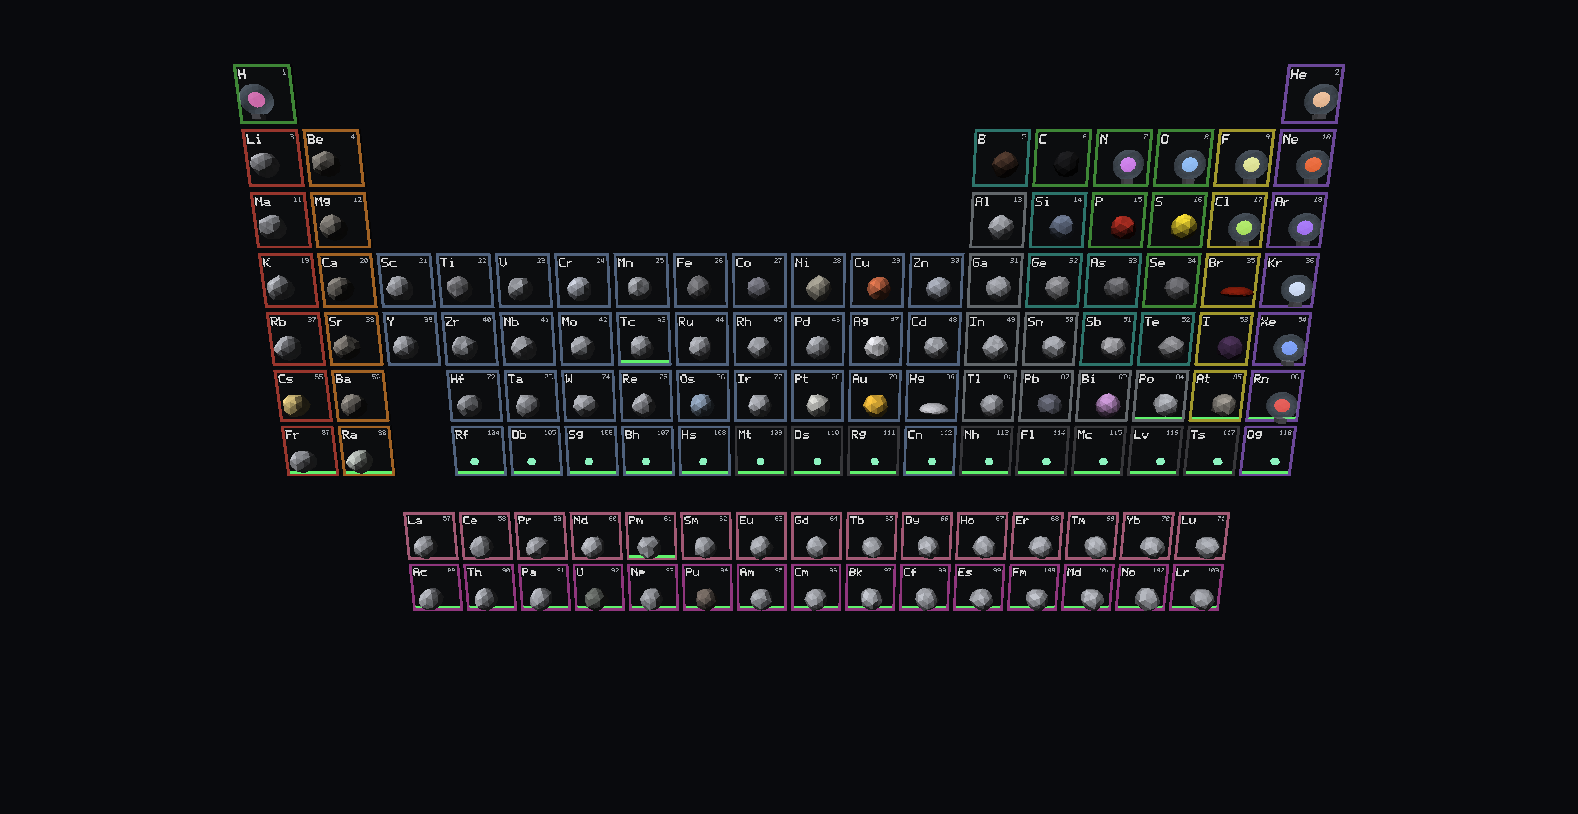
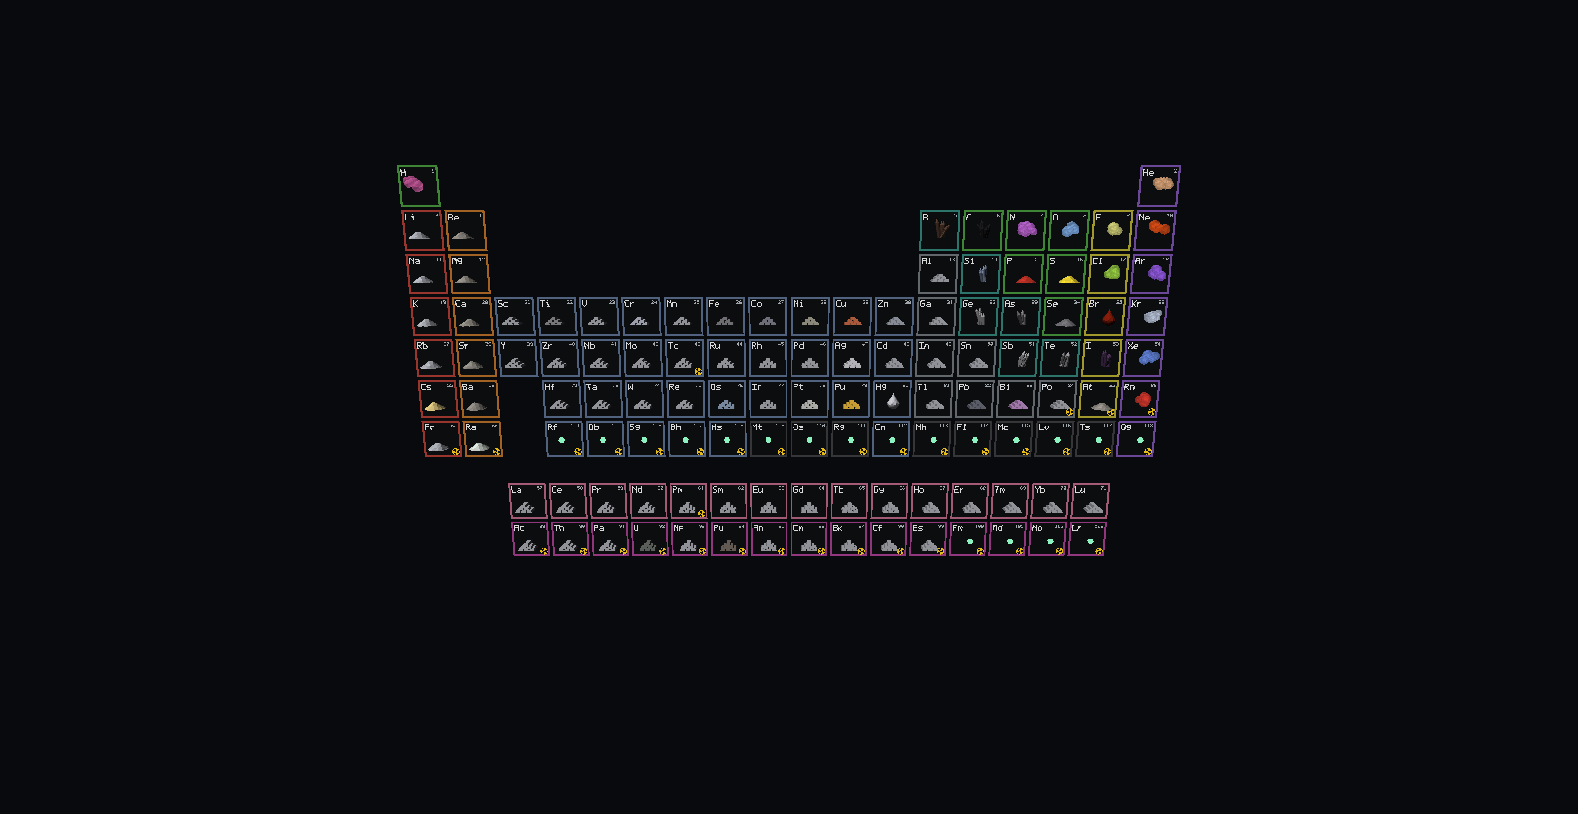
Set 7: gases as clouds, liquids as drops, metals as stacked bars, minerals as crystals, other solids as powder; radiation sign; test runs ignore real input

Changed region(s): [[0.1242, 0.0614, 0.8695, 0.7678]]

diff --git a/src/shell/ElementView.cs b/src/shell/ElementView.cs
@@ -21,10 +21,11 @@ namespace DnaAnd.Shell
         private readonly IntPtr _device;
         private double _tempK = 293.15, _atm = 1;
         private string _builtFor = "";
-        private double _camX = 4.25, _camY = -2.6, _dist = 10;
+        private double _camX = 4.25, _camY = -2.6, _dist = 7.2;
         private int _picked = -1, _hover = -1;
         private Mat4 _vp;
         private int _w = 1, _h = 1;
+        private double _age;      // a click that opened or focused the window is not a pick
         private const float Tile = 0.5f;            // spacing between tiles
 
         public ElementView(Gpu gpu, MeshPipes pipes, ContentLibrary content)
@@ -51,7 +52,7 @@ namespace DnaAnd.Shell
         {
             var sb = new System.Text.StringBuilder("Set 7 of 17: the elements, all 118, as game icons\n\n");
             sb.Append("Now: " + _tempK.ToString("0") + " K (" + C(_tempK) + "), pressure " + _atm.ToString("0.####") + " atmospheres.\n");
-            sb.Append("Solid: a lump in its real colour (metals shine). Liquid: a drop. Gas: glowing in a glass bulb. Lab-made: a small glowing core, it falls apart almost at once. A green rim on the tile: radioactive.\n");
+            sb.Append("Solid: a lump in its real colour (metals shine). Liquid: a drop. Gas: glowing in a glass bulb. Lab-made: a small glowing core, it falls apart almost at once. The yellow and black radiation sign: radioactive.\n");
             sb.Append("Tile edge colours show the family: alkali metals red, alkaline earths orange, transition metals blue-grey, post-transition grey, metalloids teal, nonmetals green, halogens yellow, noble gases violet, lanthanides pink, actinides magenta, never measured dark grey.\n\n");
             if (_picked >= 0)
             {
@@ -76,7 +77,8 @@ namespace DnaAnd.Shell
             if (input.Wheel != 0) _dist = Math.Max(0.5, Math.Min(14, _dist * Math.Pow(0.85, input.Wheel)));
             if (input.LeftDown && (input.MouseDX != 0 || input.MouseDY != 0)) { _camX -= input.MouseDX * _dist * 0.0011; _camY += input.MouseDY * _dist * 0.0011; }
             _hover = Pick(input.MouseX, input.MouseY);
-            if (input.LeftClicked && _hover >= 0) { _picked = _hover; _camX = _els[_picked].Centre.X; _camY = _els[_picked].Centre.Y; _dist = 1.2; }
+            _age += dt;
+            if (input.LeftClicked && _hover >= 0 && _age > 0.6) { _picked = _hover; _camX = _els[_picked].Centre.X; _camY = _els[_picked].Centre.Y; _dist = 1.2; }
         }
 
         /// <summary>Test runs: hotter or colder, and higher or lower pressure, by a factor.</summary>
@@ -172,6 +174,125 @@ namespace DnaAnd.Shell
                 }
         }
 
+
+        // the radiation warning sign: a yellow disc with three black blades around a black centre
+        private void RadSign(Vec3 c, float r)
+        {
+            const int Seg = 36;
+            for (int i = 0; i < Seg; i++)
+            {
+                double a0 = i * Math.PI * 2 / Seg, a1 = (i + 1) * Math.PI * 2 / Seg;
+                var p0 = new Vec3((float)Math.Cos(a0), (float)Math.Sin(a0), 0); var p1 = new Vec3((float)Math.Cos(a1), (float)Math.Sin(a1), 0);
+                Tri(_s, c, c + p0 * r, c + p1 * r, 1f, 0.82f, 0.1f, 1, 0.9f);                          // yellow disc
+                double mid = (a0 + a1) / 2 - Math.PI / 2;
+                double deg = ((mid * 180 / Math.PI) % 120 + 120) % 120;
+                if (deg < 60)                                                                         // three blades, 60 degrees wide, 60 apart
+                {
+                    var q = new Vec3(0, 0, -0.002f);
+                    Tri(_s, c + q + p0 * (r * 0.3f), c + q + p0 * (r * 0.85f), c + q + p1 * (r * 0.85f), 0.05f, 0.05f, 0.05f, 1, 0.9f);
+                    Tri(_s, c + q + p0 * (r * 0.3f), c + q + p1 * (r * 0.85f), c + q + p1 * (r * 0.3f), 0.05f, 0.05f, 0.05f, 1, 0.9f);
+                }
+                Tri(_s, c + new Vec3(0, 0, -0.002f), c + new Vec3(0, 0, -0.002f) + p0 * (r * 0.18f), c + new Vec3(0, 0, -0.002f) + p1 * (r * 0.18f), 0.05f, 0.05f, 0.05f, 1, 0.9f);   // centre
+            }
+        }
+
+        /// <summary>How a solid element is kept: metals used as metal are bars, minerals are crystals, the rest are powders.</summary>
+        private static string Form(ElementSample e)
+        {
+            if (e.Group == "Transition" || e.Group == "Post-transition" || e.Group == "Lanthanide" || e.Group == "Actinide") return "bars";
+            if (e.Group == "Metalloid" || e.Symbol == "I" || e.Symbol == "C") return "crystals";
+            return "powder";                                                         // alkali and alkaline-earth metals, sulfur, phosphorus, selenium
+        }
+
+        // a stack of metal bars: three, two, one; each bar wider at the bottom, its top lit like polished metal
+        private void Bars(Vec3 at, ElementSample e)
+        {
+            float bl = 0.075f, bw = 0.032f, bh = 0.028f;
+            int[] rows = { 3, 2, 1 };
+            for (int layer = 0; layer < 3; layer++)
+                for (int k = 0; k < rows[layer]; k++)
+                {
+                    float x = (k - (rows[layer] - 1) * 0.5f) * (bw * 2.15f);
+                    var c = at + new Vec3(x, -0.1f + layer * bh * 1.05f, 0);
+                    Ingot(c, bl, bw, bh, e.R, e.G, e.B, e.Shiny ? 0.18f : 0.05f);
+                }
+        }
+
+        private void Ingot(Vec3 c, float len, float wid, float hgt, float r, float g, float b, float glow)
+        {
+            float tw = wid * 0.72f, tl = len * 0.86f;                                  // the top is narrower and shorter than the base
+            Vec3 b00 = c + new Vec3(-wid, 0, -len), b10 = c + new Vec3(wid, 0, -len), b11 = c + new Vec3(wid, 0, len), b01 = c + new Vec3(-wid, 0, len);
+            Vec3 t00 = c + new Vec3(-tw, hgt, -tl), t10 = c + new Vec3(tw, hgt, -tl), t11 = c + new Vec3(tw, hgt, tl), t01 = c + new Vec3(-tw, hgt, tl);
+            Quad(_s, t00, t10, t11, t01, r * 1.1f, g * 1.1f, b * 1.1f, glow + 0.1f);     // top face, brightest
+            Quad(_s, b00, b10, t10, t00, r, g, b, glow); Quad(_s, b10, b11, t11, t10, r * 0.85f, g * 0.85f, b * 0.85f, glow);
+            Quad(_s, b11, b01, t01, t11, r, g, b, glow); Quad(_s, b01, b00, t00, t01, r * 0.85f, g * 0.85f, b * 0.85f, glow);
+        }
+
+        // a cluster of pointed six-sided crystals growing out of a small base
+        private void Crystals(Vec3 at, ElementSample e)
+        {
+            var rng = new Rng((ulong)e.Number * 31UL);
+            var basePt = at + new Vec3(0, -0.1f, 0);
+            for (int k = 0; k < 6; k++)
+            {
+                float lean = rng.Range(-0.6f, 0.6f), turn = rng.Range(0, 6.28f), len = rng.Range(0.09f, 0.17f), rad = rng.Range(0.014f, 0.024f);
+                var dir = new Vec3((float)Math.Sin(lean) * (float)Math.Cos(turn), (float)Math.Cos(lean), (float)Math.Sin(lean) * (float)Math.Sin(turn)).Normalized;
+                Prism(basePt + new Vec3(rng.Range(-0.03f, 0.03f), 0, rng.Range(-0.03f, 0.03f)), dir, len, rad, e.R, e.G, e.B, 0.15f);
+            }
+        }
+
+        private void Prism(Vec3 b, Vec3 dir, float len, float rad, float r, float g, float bl, float glow)
+        {
+            var side = Vec3.Cross(dir, Math.Abs(dir.Y) < 0.9f ? new Vec3(0, 1, 0) : new Vec3(1, 0, 0)).Normalized;
+            var side2 = Vec3.Cross(dir, side);
+            var top = b + dir * len; var tip = top + dir * (rad * 2.2f);
+            for (int i = 0; i < 6; i++)
+            {
+                double a0 = i * Math.PI / 3, a1 = (i + 1) * Math.PI / 3;
+                var o0 = (side * (float)Math.Cos(a0) + side2 * (float)Math.Sin(a0)) * rad;
+                var o1 = (side * (float)Math.Cos(a1) + side2 * (float)Math.Sin(a1)) * rad;
+                float k = 0.8f + 0.25f * (i % 2);
+                Quad(_s, b + o0, b + o1, top + o1, top + o0, r * k, g * k, bl * k, glow);
+                Tri(_s, top + o0, top + o1, tip, r * 1.1f, g * 1.1f, bl * 1.1f, 1, glow + 0.1f);
+            }
+        }
+
+        // a heap of powder: a low bumpy cone
+        private void Powder(Vec3 at, ElementSample e)
+        {
+            int seed = e.Number * 17;
+            Ball(_s, at + new Vec3(0, -0.11f, 0), 0.12f, 3, d =>
+            {
+                double rr = Math.Sqrt(d.X * d.X + d.Z * d.Z);
+                float bump = 0.9f + 0.2f * Noise.Fractal(d.X * 6 + seed, d.Y * 6, d.Z * 6, (uint)seed, 2);
+                float y = d.Y > 0 ? (float)(1 - rr) * 0.75f * bump : 0;
+                return new Vec3(d.X * bump, y, d.Z * bump);
+            }, e.R, e.G, e.B, 1, 0.05f, true, seed);
+        }
+
+        // a drop of liquid: round below, coming to a point above
+        private void Drop(Vec3 at, ElementSample e)
+        {
+            Ball(_s, at + new Vec3(0, -0.04f, 0), 0.075f, 3, d =>
+            {
+                if (d.Y <= 0) return d;
+                float k = (float)Math.Pow(1 - d.Y, 1.1);                                // narrows to the tip
+                return new Vec3(d.X * k / Math.Max(0.001f, (float)Math.Sqrt(1 - d.Y * d.Y)) * (float)Math.Sqrt(1 - d.Y * d.Y), d.Y * 1.7f, d.Z * k / Math.Max(0.001f, (float)Math.Sqrt(1 - d.Y * d.Y)) * (float)Math.Sqrt(1 - d.Y * d.Y));
+            }, e.R, e.G, e.B, 1, e.Shiny ? 0.2f : 0.08f, false, 0);
+        }
+
+        // a cloud of gas: soft puffs in the gas's own colour, glowing faintly
+        private void Cloud(Vec3 at, ElementSample e)
+        {
+            var rng = new Rng((ulong)e.Number * 57UL);
+            for (int k = 0; k < 7; k++)
+            {
+                var off = new Vec3(rng.Range(-0.07f, 0.07f), rng.Range(-0.035f, 0.04f), rng.Range(-0.04f, 0.04f));
+                float rad = rng.Range(0.04f, 0.065f);
+                Ball(_g, at + off, rad, 2, d => d, e.R, e.G, e.B, 0.55f, 0.6f, false, 0);
+            }
+        }
+
         private void Rebuild()
         {
             var key = new System.Text.StringBuilder();
@@ -190,27 +311,23 @@ namespace DnaAnd.Shell
                 Box(_s, c + new Vec3(-half, -half, -0.008f), c + new Vec3(half, -half + rim, 0.0f), fam[0], fam[1], fam[2], 0.7f);
                 Box(_s, c + new Vec3(-half, -half, -0.008f), c + new Vec3(-half + rim, half, 0.0f), fam[0], fam[1], fam[2], 0.7f);
                 Box(_s, c + new Vec3(half - rim, -half, -0.008f), c + new Vec3(half, half, 0.0f), fam[0], fam[1], fam[2], 0.7f);
-                if (e.Radioactive) Box(_s, c + new Vec3(-half + rim, -half + rim, -0.004f), c + new Vec3(half - rim, -half + rim * 2, 0.0f), 0.4f, 1f, 0.45f, 0.95f);
+                if (e.Radioactive) RadSign(c + new Vec3(half - 0.07f, -half + 0.07f, -0.012f), 0.045f);
                 // symbol (large, top left) and number (small, top right)
                 Text(_s, e.Symbol, c + new Vec3(-half + 0.035f, half - 0.04f, 0), 0.011f, 0.95f, 0.95f, 0.95f);
                 string num = e.Number.ToString();
                 Text(_s, num, c + new Vec3(half - 0.035f - num.Length * 6 * 0.006f, half - 0.04f, 0), 0.006f, 0.7f, 0.72f, 0.75f);
                 // the sample, sitting on the lower part of the tile
-                var at = c + new Vec3(0, -0.06f, -0.13f);
+                var at = c + new Vec3(0, 0.02f, -0.13f);   // the sample stands in the middle of its tile
                 string state = e.StateAt(_tempK, _atm);
                 if (state == "solid")
                 {
-                    int seed = e.Number * 13;
-                    Ball(_s, at, 0.105f, 2, d => d * (0.8f + 0.35f * Noise.Fractal(d.X * 2 + seed, d.Y * 2, d.Z * 2, (uint)seed, 3)), e.R, e.G, e.B, 1, e.Shiny ? 0.12f : 0, true, seed);
+                    string form = Form(e);
+                    if (form == "bars") Bars(at, e);
+                    else if (form == "crystals") Crystals(at, e);
+                    else Powder(at, e);
                 }
-                else if (state == "liquid")
-                    Ball(_s, at + new Vec3(0, -0.04f, 0), 0.11f, 3, d => new Vec3(d.X * 1.15f, d.Y > 0 ? d.Y * 0.55f : d.Y * 0.25f, d.Z * 1.15f), e.R, e.G, e.B, 1, e.Shiny ? 0.15f : 0.05f, false, 0);
-                else if (state == "gas")
-                {
-                    Ball(_s, at, 0.06f, 2, d => d, e.R, e.G, e.B, 1, 1f, false, 0);                    // the glow of the gas
-                    Ball(_g, at, 0.12f, 3, d => d, 0.75f, 0.85f, 0.95f, 0.22f, 0.3f, false, 0);        // the glass bulb
-                    Box(_s, at + new Vec3(-0.035f, -0.15f, -0.035f), at + new Vec3(0.035f, -0.11f, 0.035f), 0.45f, 0.45f, 0.48f, 0.2f);   // its metal cap
-                }
+                else if (state == "liquid") Drop(at, e);
+                else if (state == "gas") Cloud(at, e);
                 else
                     Ball(_s, at, 0.04f, 1, d => d, 0.55f, 0.95f, 0.75f, 1, 1f, false, 0);                // lab-made: a small glowing core
             }

diff --git a/src/platform/Input.cs b/src/platform/Input.cs
@@ -26,8 +26,12 @@ namespace DnaAnd.Platform
         }
 
         /// <summary>Feeds one window message. Returns true if it was an input message.</summary>
+        /// <summary>Timed test runs ignore the real keyboard and mouse, so the person at the computer is never disturbed by them, and never throws them off.</summary>
+        public bool IgnoreReal;
+
         public bool OnMessage(uint msg, IntPtr wParam, IntPtr lParam)
         {
+            if (IgnoreReal && (msg == Win32.WM_KEYDOWN || msg == Win32.WM_SYSKEYDOWN || msg == Win32.WM_MOUSEMOVE || msg == Win32.WM_LBUTTONDOWN || msg == Win32.WM_RBUTTONDOWN || msg == Win32.WM_MOUSEWHEEL)) return true;
             switch (msg)
             {
                 case Win32.WM_KEYDOWN:

diff --git a/src/Program.cs b/src/Program.cs
@@ -67,6 +67,7 @@ namespace DnaAnd
             ContentLibrary content = ContentLibrary.Load("content");
             bool big = Array.IndexOf(args, "--big") >= 0;                      // a full-size check, for pictures at the size the player sees
             var window = new Window("DNA-AND", 1600, 900, smokeMs >= 0 && !big);   // timed checks open small and out of the way
+            window.Input.IgnoreReal = smokeMs >= 0;          // timed checks never take the person's keyboard or mouse
             Gpu gpu;
             try { gpu = new Gpu(window.Handle, window.Width, window.Height); }
             catch (Exception ex) { WriteLog("gpu error · " + ex.Message); window.Close(); return 2; }

diff --git a/docs/DESIGN.md b/docs/DESIGN.md
@@ -677,3 +677,5 @@ Everything the creator has said about this project, in order. Short process repl
     5. cities
     6. stations, colonies and ships, built from the species that make them
 104. "dont foget temp and pressure and atmo composiytions". Every element now has its melting and boiling points from standard tables, and samples change state with temperature and pressure, which you can set. Every world kind has its air make-up in content, shown in its Legend.
+105. "make gases clouds liuqids at 70 degress liquids drops and metals metals like bodld copper iron all bars like a stack powerdes for other things and mineral likes design for other things, you get it? not every one just orby rocks". Gases are clouds and liquids are drops. Metals used as metal (gold, copper, iron, the transition and later metals) are stacks of bars. Minerals (the metalloids, iodine, carbon) are crystal clusters. The other solids (reactive metals, sulfur, phosphorus) are powder heaps. What "at 70 degress" means is to be confirmed.
+106. "pur rad sysmbol on those elements". Radioactive elements carry the yellow and black radiation sign on their tile.
